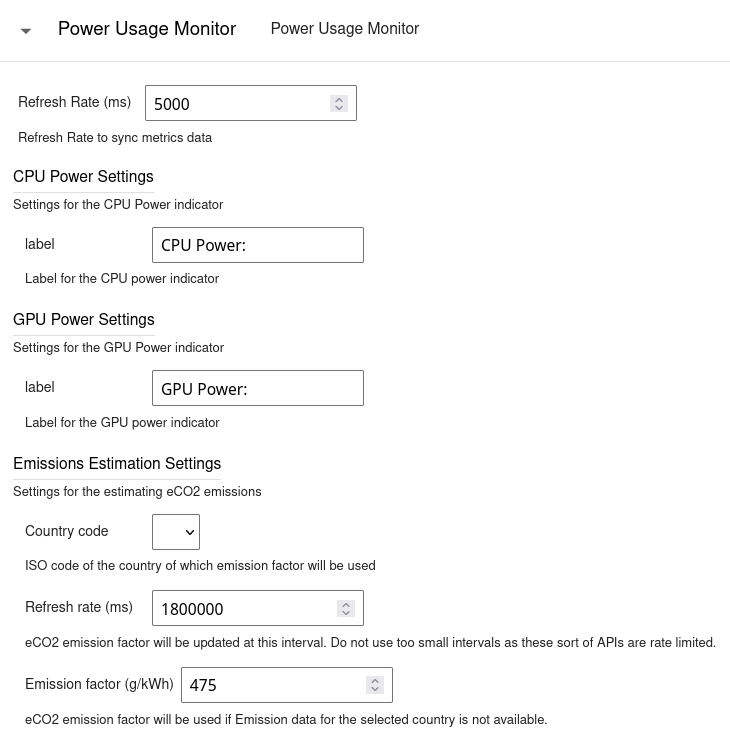
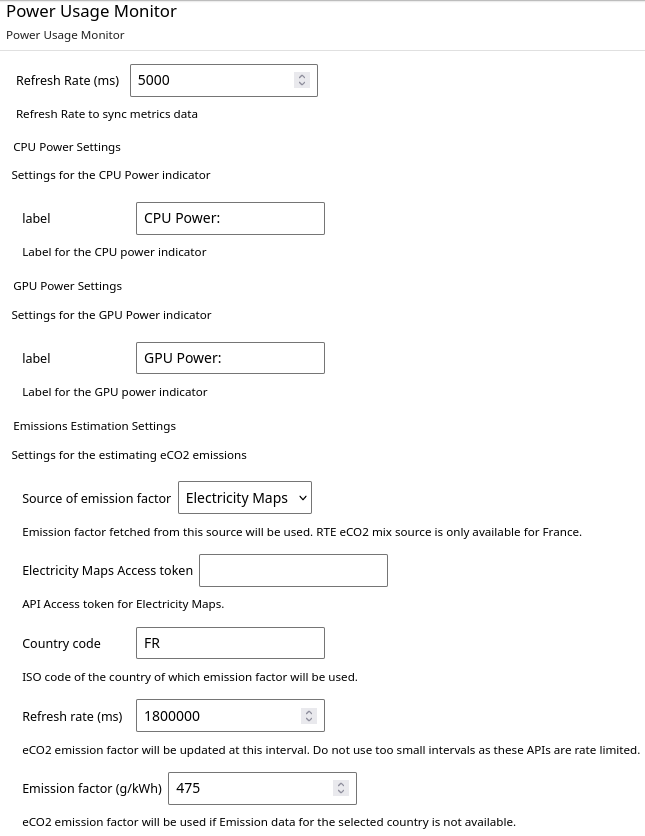
docs: Update docs

Changed region(s): [[0.0, 0.0, 0.9922, 0.9959]]

diff --git a/README.md b/README.md
@@ -64,6 +64,10 @@ Currently the extension supports different measurement scopes:
 
 By default `process` scope is used. The user can change it by CLI flag `--PowerUsageDisplay.measurement_scope` to `jupyter lab` command. Alternatively, it can be configured in `jupyter_server_config.json` in [Jupyter config directory](https://docs.jupyter.org/en/latest/use/jupyter-directories.html#configuration-files).
 
+#### Electricity Maps API token
+
+An API token for electricity maps emission factor. By default API requests are made from jupyter server as they involve including authentication token. These are called proxied requests. If they fail, API requests directly from the browser will be made using the API token configured in the frontend extension. Users should configure the token on the server config as exposing API token in browsers can pose security issues. It can be set on CLI using `--PowerUsageDisplay.emaps_access_token=<token>`.
+
 ### Frontend extension config
 
 ![Frontend extension settings](https://raw.githubusercontent.com/mahendrapaipuri/jupyter-power-usage/main/doc/frontend-settings.png)
@@ -75,6 +79,10 @@ The frontend extension settings can be accessed by `Settings -> Advanced Setting
 - `CPU label` and `GPU label` settings are self explanatory.
 
 **Emissions Estimation Settings**
+
+- `Source of emission factor`: Currently [Electricity Maps](https://www.electricitymaps.com/) and [RTE eCO<sub>2</sub> mix](https://www.rte-france.com/en/eco2mix/co2-emissions) are supported. Note that RTE eCO<sub>2</sub> mix data is only available for France.
+
+- `Electricity Maps Access token`: An API access token for Electricity Maps (See [Server Config](#electricity-maps-api-token)).
 
 - `Country code`: Currently only data for France is supported. The realtime emission factor from [RTE eCO<sub>2</sub> mix](https://www.rte-france.com/en/eco2mix/co2-emissions). We encourage users to add support for other countries. Please check [`CONTRIBUTING.md`](CONTRIBUTING.md) on how to do it. If your country is not available in the list, leave it blank.
 
